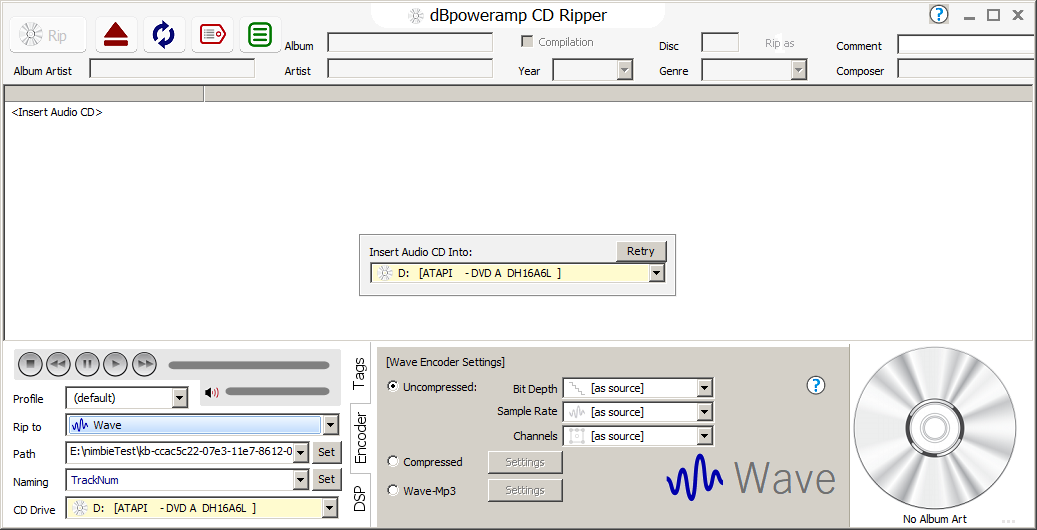
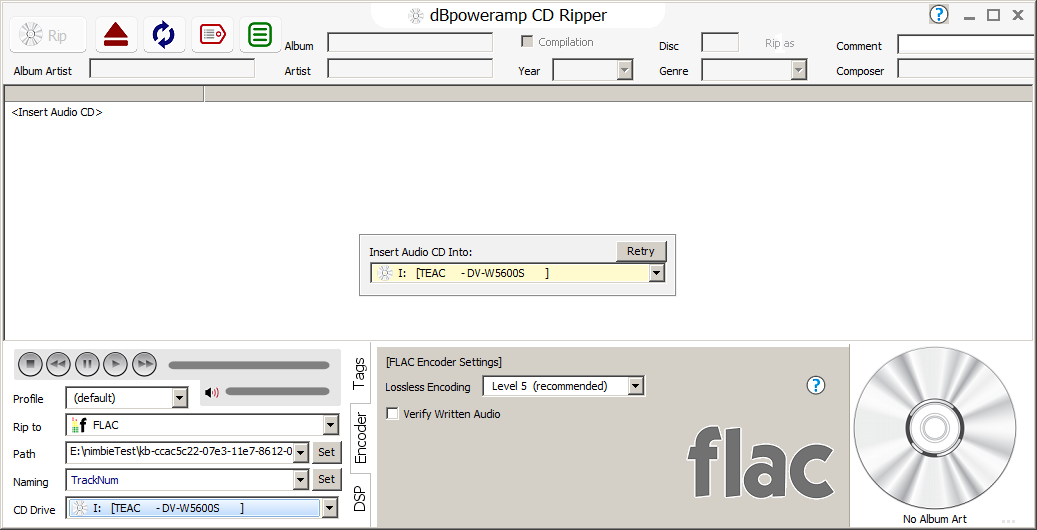
expanded dbpoweramp setup

diff --git a/doc/setupGuide.md b/doc/setupGuide.md
@@ -62,7 +62,7 @@ Finally, you need to install the console ripping tool. This tool was created spe
 
 ![](./dbpaCLI.png)
 
-### Configure ripping settings
+### Configure general settings
 
 After installing, locate the *dBpoweramp* item in the Windows Start Menu, and launch the *CD Ripper* application, as shown below: 
 
@@ -86,8 +86,51 @@ At the bottom you can configure a number of settings. Select the following:
     ![](./dbpaReplayGain.png)
     
     (This option adds metadata on a track's loudness to the audio file. This information can be used by some audio players for volume matching / correcting. It doesn't change the audio itself.)
-* *Path* - leave this at whatever value the default is
-* *Naming* - change the default to *TrackNum*. The effect of this is that track numbers will be used as the base names of the audio files that are written (*001.wav*, *002.wav*, and so on)
+* *Path* - leave this at the default (whatever it may be).
+* *Naming* - change the default to *TrackNum*. The effect of this is that track numbers will be used as the base names of the audio files that are written (*001.wav*, *002.wav*, and so on).
+* *CD Drive* - select the CD-drive that corresponds to the Nimbie discrobot (make sure *not* to select the computer's built-in drive here; the Nimbie has a *Teac* drive so you should be able to identify it from its description.)
+
+### Configure ripper options
+
+Now click on the green menu button at the top toolbar, and select *CD Ripper Options*:
+
+![](./dbpaRipperOptions.png)
+
+In the window that appears, set *Ripping  Method* (at the top) to *Secure (Recover Errors)*:
+
+![](./dbpaRipperOptions2.png)
+
+Leave the *AccurateRip* options as they are (all options checked). Next click on *Secure Settings* (to the right of *Secure (Recover Errors)*):
+
+* Check *Enable Ultra Secure Ripping*
+* *Minimum Ultra Passes* - set to 2 
+* *Maximum Ultra Passes* - set to 4
+*  *End After Clean Passes* - set to 2
+
+Note: the above settings are valid for a drive that does not support C2 pointers. See dBpoweramp's *cd-ripper-setup-guide* on how to determine if a drive supports C2 pointers (the Nimbie's built-in drive doesn't appear to support them).
+
+* *Drive Read Cache* - leave this at default value (1024 kB)
+
+See also:
+
+![](./dbpaSecureOptions.png)
+
+* *Clear Read Cache with FUA* - leave this unchecked
+* *C2 Error Pointers for Error Detection* - leave this unchecked as well
+
+### Secure Rip Abort options
+
+* *After Unrecoverable Frames* - set to 1 frame
+* *When have to Re-Rip* - set to 100 frames
+* *After Ripping a Track For* - set to 10 minutes
+
+Finally, check *Mark Track as Error if Insecure*, and check both the *Secure Extraction Log* options. See below:
+
+![](./dbpaSecureRipAbort)
+
+
+### AccurateRip configuration
+
   
 Then close *CD Ripper*.
 
